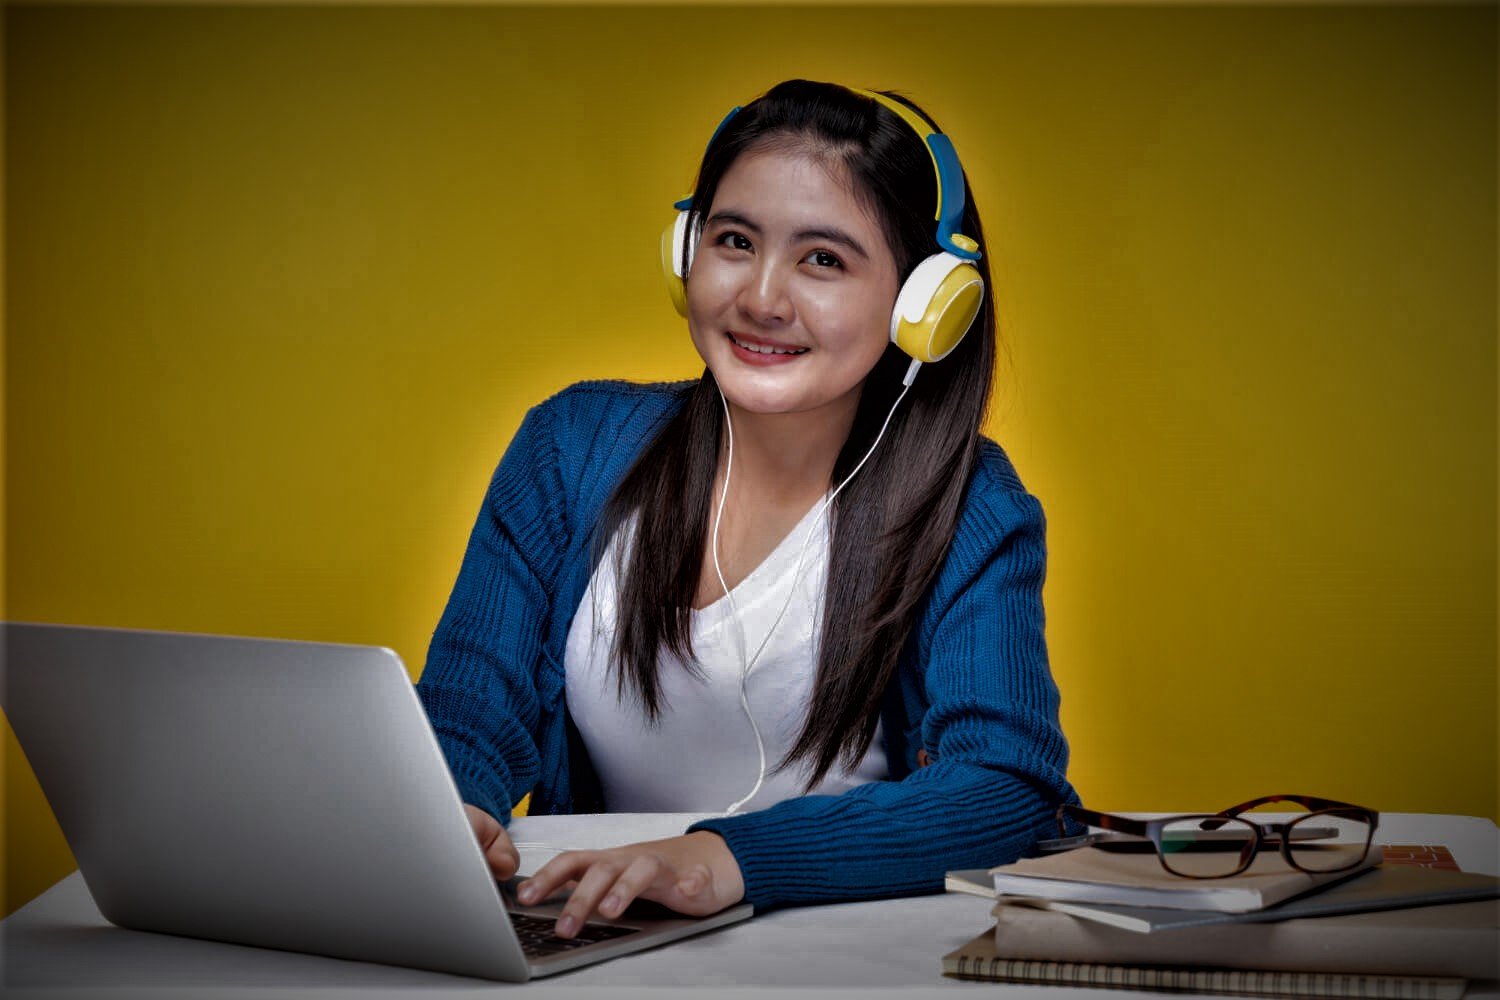
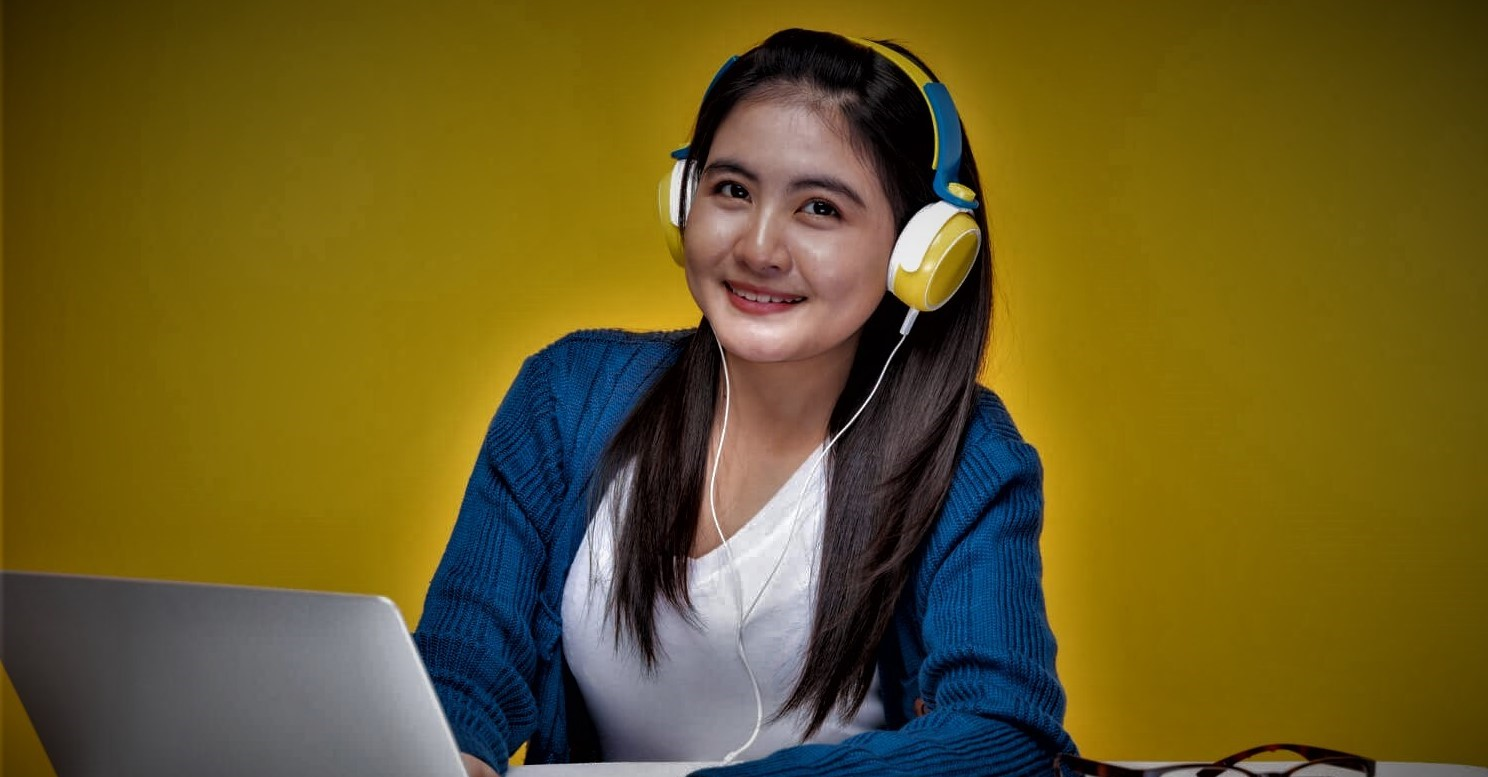
slider added

diff --git a/index.html b/index.html
@@ -12,9 +12,12 @@
 <body>
     <header class="container">
         <!-- navbar start -->
-        <nav class="navbar navbar-expand-lg">
-            <div class="container-fluid">
-                <a class="navbar-brand h1" href="#">P for Programming</a>
+        <nav class="navbar navbar-expand-lg fixed-top bg-light mb-5">
+            <div class="container">
+                <a class="navbar-brand" href="#">
+                    <h1 class="display-6 fw-bolder">P for Programming
+                    </h1>
+                </a>
                 <button class="navbar-toggler" type="button" data-bs-toggle="collapse"
                     data-bs-target="#navbarSupportedContent" aria-controls="navbarSupportedContent"
                     aria-expanded="false" aria-label="Toggle navigation">
@@ -46,7 +49,77 @@
             </div>
         </nav>
         <!-- nabbar end.. -->
+        <!-- slider start  -->
+        <section class="my-5">
+            <div id="carouselExampleCaptions" class="carousel slide" data-bs-ride="carousel">
+                <div class="carousel-inner">
+                    <div class="carousel-item active">
+                        <img src="images/cover/cover-1.jpg" class="d-block w-100 img-fluid" alt="...">
+                        <div class="carousel-caption pb-0 d-sm-block">
+                            <h1 class="fw-bolder">Digital Learning
+                            </h1>
+                            <p> Our dream is to introduce the new
+                                generation to the world of programming
+                            </p>
+                            <button type="button" class="btn btn-info text-white">Get Started</button>
+                        </div>
+                    </div>
+                    <div class="carousel-item">
+                        <img src="images/cover/cover-2.jpg" class="d-block w-100" alt="...">
+                        <div class="carousel-caption pb-0 d-sm-block">
+                            <h1 class="fw-bolder">Digital Learning
+                            </h1>
+                            <p>
+                                Our dream is to introduce the new
+                                generation to the world of programming
+                            </p>
+                            <button type="button" class="btn btn-info text-white">Get Started</button>
+                        </div>
+                    </div>
+                    <div class="carousel-item">
+                        <img src="images/cover/cover-3.jpg" class="d-block w-100" alt="...">
+                        <div class="carousel-caption pb-0 d-sm-block">
+                            <h1 class="fw-bolder">Digital Learning
+                            </h1>
+                            <p>
+                                Our dream is to introduce the new
+                                generation to the world of programming
+                            </p>
+                            <button type="button" class="btn btn-info text-white">Get Started</button>
+                        </div>
+                    </div>
+                </div>
+                <button class="carousel-control-prev" type="button" data-bs-target="#carouselExampleCaptions"
+                    data-bs-slide="prev">
+                    <span class="carousel-control-prev-icon" aria-hidden="true"></span>
+                    <span class="visually-hidden">Previous</span>
+                </button>
+                <button class="carousel-control-next" type="button" data-bs-target="#carouselExampleCaptions"
+                    data-bs-slide="next">
+                    <span class="carousel-control-next-icon" aria-hidden="true"></span>
+                    <span class="visually-hidden">Next</span>
+                </button>
+            </div>
+        </section>
+        <!-- slider end  -->
     </header>
+    <main>
+        <!-- courses start  -->
+        <section class="container">
+            <div class="text-center my-5">
+                <h1>
+                    Explore Our Top
+                    <br>
+                    Courses
+                </h1>
+                <p class="text-secondary">
+                    Chose any topic from course, Admission, Skill Development and enjoy your personalized learning
+                    journey
+                </p>
+            </div>
+        </section>
+        <!-- courses end -->
+    </main>
     <script src="https://cdn.jsdelivr.net/npm/bootstrap@5.2.0/dist/js/bootstrap.bundle.min.js"
         integrity="sha384-A3rJD856KowSb7dwlZdYEkO39Gagi7vIsF0jrRAoQmDKKtQBHUuLZ9AsSv4jD4Xa"
         crossorigin="anonymous"></script>
